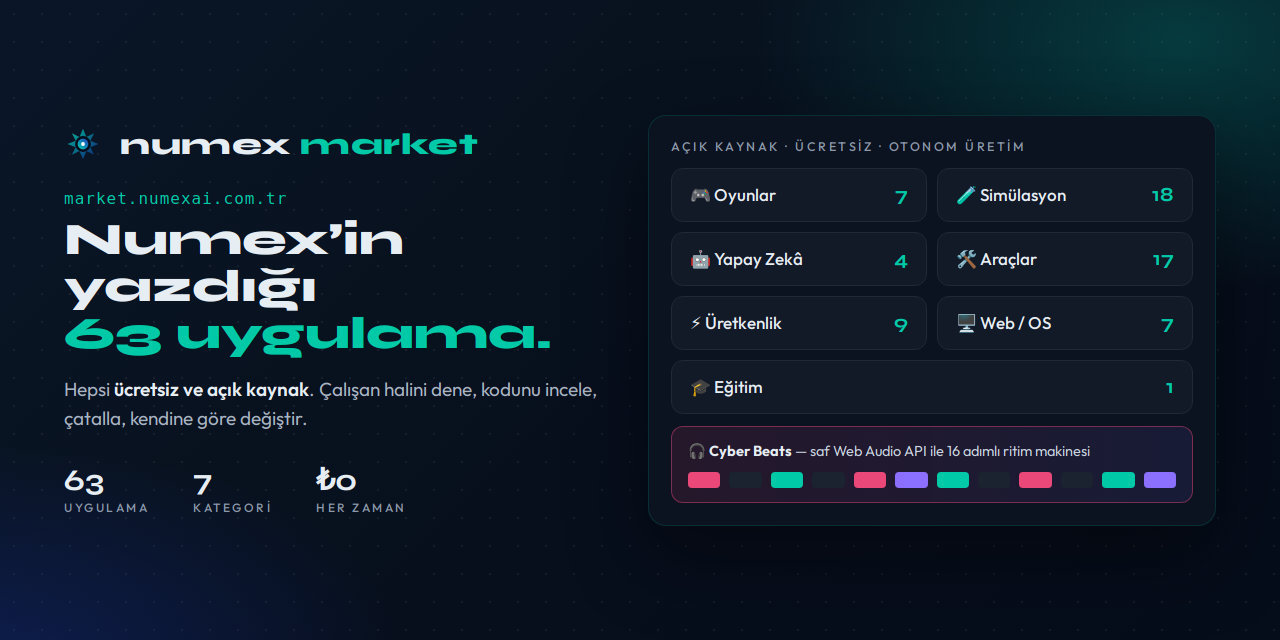
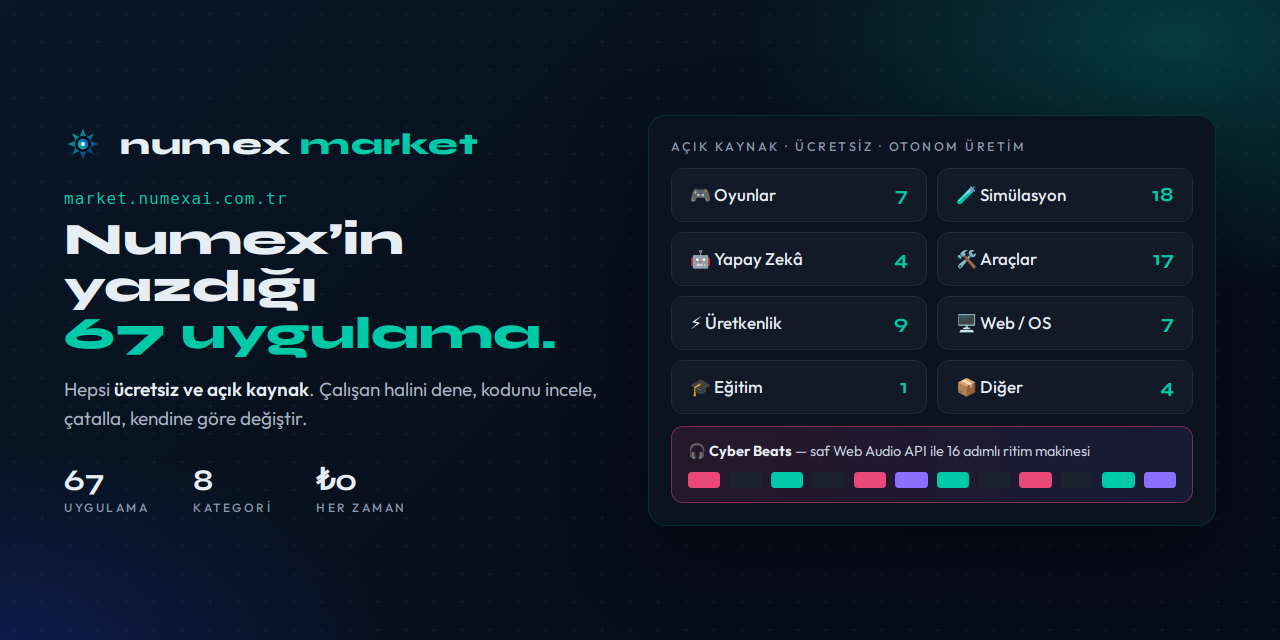
Market güncellendi (numexai.com.tr vitrininden)

diff --git a/README.md b/README.md
@@ -45,8 +45,8 @@ Türkçe'ye ve Türk kullanıcısına özel — verileri Türkiye'de, KVKK uyuml
 <a href="https://okul.numexai.com.tr">okul.numexai.com.tr</a> · <a href="urunler/11-numex-okul.md">ayrıntı</a></td>
 </tr>
 <tr>
-<td width="50%"><a href="https://market.numexai.com.tr"><img src="gorseller/kart-market.png" alt="Numex Market — 63 açık kaynak uygulama"></a>
-<b>🛍 Numex Market</b> — Numex'in kendi yazdığı 63 ücretsiz, açık kaynak uygulama<br>
+<td width="50%"><a href="https://market.numexai.com.tr"><img src="gorseller/kart-market.png" alt="Numex Market — 67 açık kaynak uygulama"></a>
+<b>🛍 Numex Market</b> — Numex'in kendi yazdığı 67 ücretsiz, açık kaynak uygulama<br>
 <a href="https://market.numexai.com.tr">market.numexai.com.tr</a> · <a href="urunler/13-numex-market.md">ayrıntı</a></td>
 <td width="50%"><a href="https://pedia.numexai.com.tr"><img src="gorseller/kart-pedia.png" alt="Numexpedia — özgür Türkçe ansiklopedi"></a>
 <b>📖 Numexpedia</b> — bilgisayar ve yapay zekâ, sade Türkçe ile; 28 makale<br>
@@ -90,7 +90,7 @@ Türkçe'ye ve Türk kullanıcısına özel — verileri Türkiye'de, KVKK uyuml
 | **2 × 256 GB** | RAM, çift sunucu | SAS + NAS depolama |
 | **%100** | KVKK uyumu | Veriler Türkiye'de |
 | **100.000** | Hediye token | Geliştirici API'sinde ilk kayıtta |
-| **63** | Açık kaynak uygulama | Numex Market · 7 kategori · ₺0 |
+| **67** | Açık kaynak uygulama | Numex Market · 8 kategori · ₺0 |
 | **28** | Türkçe makale | Numexpedia · 8 kategori |
 | **16+** | Aile üyesi | Uygulamalar · Geliştirici araçları · Platform & topluluk |
 
@@ -143,7 +143,7 @@ flowchart TB
 | [numexai.com.tr/aile](https://www.numexai.com.tr/aile) | Numex Ailesi haritası |
 | [codex.numexai.com.tr](https://codex.numexai.com.tr) | Numex Codex — IDE, VS Code eklentisi, CLI |
 | [okul.numexai.com.tr](https://okul.numexai.com.tr) | Numex Okul — doğrulanmış testler |
-| [market.numexai.com.tr](https://market.numexai.com.tr) | Numex Market — 63 açık kaynak uygulama |
+| [market.numexai.com.tr](https://market.numexai.com.tr) | Numex Market — 67 açık kaynak uygulama |
 | [dene.numexai.com.tr](https://dene.numexai.com.tr/cyberbeats/) | Market uygulamalarının canlı demoları |
 | [hub.numexai.com.tr](https://hub.numexai.com.tr) | Numex Hub — AI depo yönetimi, Topluluk Vitrini |
 | [forge.numexai.com.tr](https://forge.numexai.com.tr) | Numex Forge — Gitea tabanlı Git sunucusu |
@@ -160,7 +160,7 @@ flowchart TB
 | 💬 | **Numex AI** | Herkes | Türkçe sohbet, kod, görsel, ses, belge analizi, web araması, karakterler, Agent modu | [→](urunler/01-numex-ai-platform.md) |
 | 🎓 | **Numex Okul** | Öğrenci · veli · öğretmen | Bir AI soruyu üretir, ikinci AI doğrular; LGS/TYT/AYT/ehliyet; ekranda çöz veya PDF | [→](urunler/11-numex-okul.md) |
 | 🧩 | **Numex Codex** | Geliştirici | Türkçe kod ajanı: Web editör, masaüstü IDE (v2.9.59), VS Code eklentisi; Sohbet · Plan · Otonom · Hata Avcısı | [→](urunler/03-numex-codex-ide.md) |
-| 🛍 | **Numex Market** | Herkes | Numex'in otonom ürettiği 63 ücretsiz, açık kaynak uygulama; 7 kategori | [→](urunler/13-numex-market.md) |
+| 🛍 | **Numex Market** | Herkes | Numex'in otonom ürettiği 67 ücretsiz, açık kaynak uygulama; 8 kategori | [→](urunler/13-numex-market.md) |
 | ⌨ | **Numex CLI** | Geliştirici | Terminalde otonom ajan (v3.3.10), misyon/plan modu, uzaktan PC köprüsü, MCP | [→](urunler/02-numex-cli.md) |
 | 🧰 | **Codex SDK** | Geliştirici | Çekirdeği uygulamana göm: chat · embeddings · images · models · search · CLI Bridge | [→](urunler/05-api-ve-sdk.md) |
 | 🔌 | **Developer API** | Yazılım ekipleri | REST v1; `numex-pro` · `fast` · `think` · `vision` · `code`; streaming, function calling; ilk kayıtta 100K token | [→](urunler/05-api-ve-sdk.md) |
@@ -331,7 +331,7 @@ KDV dahil, şeffaf. Yıllık ödemede **2 ay bedava**.
 | **2024** | **Detective Mode™** — çoklu model tartışma ve hakem sistemi. |
 | **2025** | **v3.0** — sıfırdan yeniden yazım: Pipeline, karakterler, planlar, Dış API (`/v1/chat/completions`), admin paneli, çift sunucu. **DeepView™ v1.0** (Mart). |
 | **2026 Şubat** | **v3.1** — ilk genel kullanıcı sürümü: Pro/Fast/Vision/Code, paylaşılabilir sohbetler, misafir kullanım, OAuth, Codex editörü. |
-| **2026** | **Numex Ailesi**: Codex IDE v2.9.59 & CLI v3.3.10, Okul, Market (63 uygulama), Numexpedia, Hub & Forge, Oyun Bahçesi; aynı ekipten **Pusulam** ve **PC Doktoru v3.1**. |
+| **2026** | **Numex Ailesi**: Codex IDE v2.9.59 & CLI v3.3.10, Okul, Market (67 uygulama), Numexpedia, Hub & Forge, Oyun Bahçesi; aynı ekipten **Pusulam** ve **PC Doktoru v3.1**. |
 
 **Kurucu — Nurullah Şahin** · Kurucu & AI Mimarı. Sivas Gürün kökenli, İstanbul'da yaşayan teknoloji
 girişimcisi; 2010'dan bu yana yapay zeka ve makine öğrenmesi alanında çalışıyor. Panorama Istanbul

diff --git a/README.en.md b/README.en.md
@@ -35,8 +35,8 @@ Turkish-first by design — data stays in Türkiye, KVKK (Turkish GDPR) complian
 <a href="https://okul.numexai.com.tr">okul.numexai.com.tr</a> · <a href="urunler/11-numex-okul.md">details</a></td>
 </tr>
 <tr>
-<td width="50%"><a href="https://market.numexai.com.tr"><img src="gorseller/kart-market.png" alt="Numex Market — 63 açık kaynak uygulama"></a>
-<b>🛍 Numex Market</b> — 63 free, open-source apps Numex built by itself<br>
+<td width="50%"><a href="https://market.numexai.com.tr"><img src="gorseller/kart-market.png" alt="Numex Market — 67 açık kaynak uygulama"></a>
+<b>🛍 Numex Market</b> — 67 free, open-source apps Numex built by itself<br>
 <a href="https://market.numexai.com.tr">market.numexai.com.tr</a> · <a href="urunler/13-numex-market.md">details</a></td>
 <td width="50%"><a href="https://pedia.numexai.com.tr"><img src="gorseller/kart-pedia.png" alt="Numexpedia — özgür Türkçe ansiklopedi"></a>
 <b>📖 Numexpedia</b> — computing and AI explained in plain Turkish; 28 articles<br>
@@ -54,7 +54,7 @@ Turkish-first by design — data stays in Türkiye, KVKK (Turkish GDPR) complian
 | **16+** | Products in the Numex family |
 | **5-stage** | Pipeline that turns every answer into natural Turkish |
 | **128K** | Token context window |
-| **63** | Open-source apps in Numex Market, all built autonomously |
+| **67** | Open-source apps in Numex Market, all built autonomously |
 | **28** | Articles in Numexpedia, a free Turkish encyclopedia |
 | **2 × 256 GB** | RAM, dual-server infrastructure in Türkiye |
 | **100,000** | Free API tokens on sign-up |
@@ -100,7 +100,7 @@ flowchart TB
 | 💬 **Numex AI** | Everyone | Turkish chat, code, documents, web search, vision, voice, cultural characters, Agent mode | [numexai.com.tr](https://numexai.com.tr) |
 | 🎓 **Numex Okul** | Students, parents, teachers | One AI writes each question, a second AI solves it independently; mismatches are discarded. LGS/TYT/AYT exam prep, driving test; solve on screen or export PDF | [okul.numexai.com.tr](https://okul.numexai.com.tr) |
 | 🧩 **Numex Codex** | Developers | Turkish coding agent: browser editor, desktop IDE (v2.9.59, VS Code based), VS Code extension. Modes: Chat · Plan · Autonomous · Bug Hunter | [codex.numexai.com.tr](https://codex.numexai.com.tr) |
-| 🛍 **Numex Market** | Everyone | 63 free, open-source apps Numex built autonomously, in 7 categories — try live, read the source, fork | [market.numexai.com.tr](https://market.numexai.com.tr) |
+| 🛍 **Numex Market** | Everyone | 67 free, open-source apps Numex built autonomously, in 8 categories — try live, read the source, fork | [market.numexai.com.tr](https://market.numexai.com.tr) |
 | ⌨ **Numex CLI** | Developers | Autonomous agent in the terminal (v3.3.10): plan mode, long-running missions, undo, offline via Ollama, remote-PC bridge, MCP | `npm i -g @numexai/cli` |
 | 🧰 **Codex SDK** | Developers | chat · embeddings · images · models · search + a CLI Bridge to embed the agent anywhere | `npm i numexcodex-sdk` |
 | 🔌 **Developer API** | Teams | REST v1 with `numex-pro`, `numex-fast`, `numex-think`, `numex-vision`, `numex-code`; streaming, function calling | [API docs](urunler/05-api-ve-sdk.md) |
@@ -129,7 +129,7 @@ flowchart TB
    cannot be marked "done" without live evidence — HTTP 200, passing tests, or DOM checks.
 
 **Proof over claims** runs through the whole family: Detective Mode in chat, dual-AI verification
-in Okul, FinishGate in code — and Numex Market, where 63 autonomously built, verified apps are open
+in Okul, FinishGate in code — and Numex Market, where 67 autonomously built, verified apps are open
 for anyone to inspect.
 
 ## 🇹🇷 Cultural characters

diff --git a/urunler/13-numex-market.md b/urunler/13-numex-market.md
@@ -7,7 +7,7 @@
 > **Numex AI'nın sıfırdan kodladığı uygulamalar — hepsi ücretsiz ve açık kaynak.**
 > İster çalışan halini indir, ister kodunu incele, ister kendine göre değiştir.
 
-| **63** | **7** | **₺0** |
+| **67** | **8** | **₺0** |
 |:---:|:---:|:---:|
 | Uygulama | Kategori | Her zaman ücretsiz |
 
@@ -51,7 +51,7 @@ Market uygulamaları **dene.numexai.com.tr** üzerinde kurulum gerektirmeden can
 | 🔊 **Ses motoru** | Tüm sesler **saf Web Audio API** ile sentezlenir — tek bir ses dosyası yok |
 | 🎨 **Tasarım** | Neon siberpunk arayüz, durum göstergesi (● ÇALIYOR) |
 
-Bir cümlelik istekten çalışan, test edilmiş ve yayınlanmış bir uygulamaya: Market'teki 63
+Bir cümlelik istekten çalışan, test edilmiş ve yayınlanmış bir uygulamaya: Market'teki 67
 uygulamanın her biri bu hattan geçti.
 
 ## Nasıl kullanılır?
@@ -66,7 +66,7 @@ uygulamanın her biri bu hattan geçti.
 ```mermaid
 flowchart LR
   CORE[🧠 Core — Beyin<br/>otonom üretim] --> FORGE[(🏗 Forge<br/>kaynak kod)]
-  FORGE --> MARKET[🛍 Market<br/>63 uygulama]
+  FORGE --> MARKET[🛍 Market<br/>67 uygulama]
   MARKET -->|indir| USER[👤 Kullanıcı]
   MARKET -->|çatalla| HUB[📦 Hub]
   HUB -->|düzenle| CODEX[🧩 Codex]

diff --git a/urunler/README.md b/urunler/README.md
@@ -14,7 +14,7 @@
 | 10 | [PusulamX](10-pusulamx.md) | KOBİ |
 | 11 | [Numex Okul](11-numex-okul.md) | Eğitim — doğrulanmış testler |
 | 12 | [Güvenlik, gizlilik ve KVKK](12-guvenlik-kvkk.md) | Kurumsal |
-| 13 | [Numex Market](13-numex-market.md) | Herkes — 63 açık kaynak uygulama |
+| 13 | [Numex Market](13-numex-market.md) | Herkes — 67 açık kaynak uygulama |
 | 14 | [Numexpedia](14-numexpedia.md) | Herkes — Türkçe ansiklopedi |
 | 15 | [Numex Ailesi](15-numex-ailesi.md) | Ekosistem haritası |
 | 16 | [Oyun Bahçesi](16-oyun-bahcesi.md) | Herkes |

diff --git a/urunler/06-hub-ve-forge.md b/urunler/06-hub-ve-forge.md
@@ -91,7 +91,7 @@ Numex'in otonom ürettiği uygulamaların kaynak kodu Forge'da herkese açık du
 flowchart LR
     CODEX[Codex Web / IDE / CLI] -->|proje| FORGE[(🏗 Forge<br/>Gitea · gerçek Git)]
     HUB[📦 Hub<br/>AI depo arayüzü] <--> FORGE
-    MARKET[🛍 Numex Market<br/>63 açık kaynak uygulama] -->|kaynak kodu| FORGE
+    MARKET[🛍 Numex Market<br/>67 açık kaynak uygulama] -->|kaynak kodu| FORGE
     PEDIA[📖 Numexpedia] -.bağlantı.-> FORGE
 ```
 
